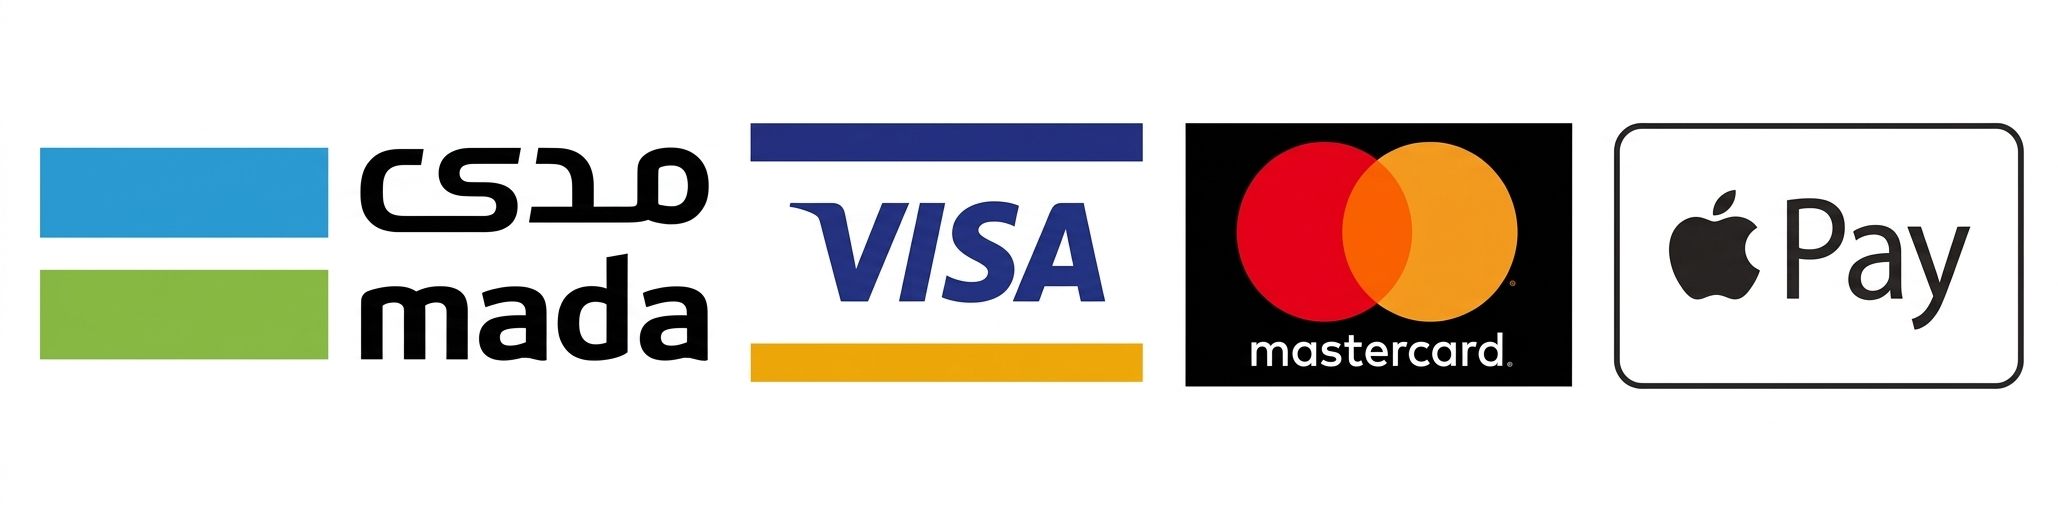
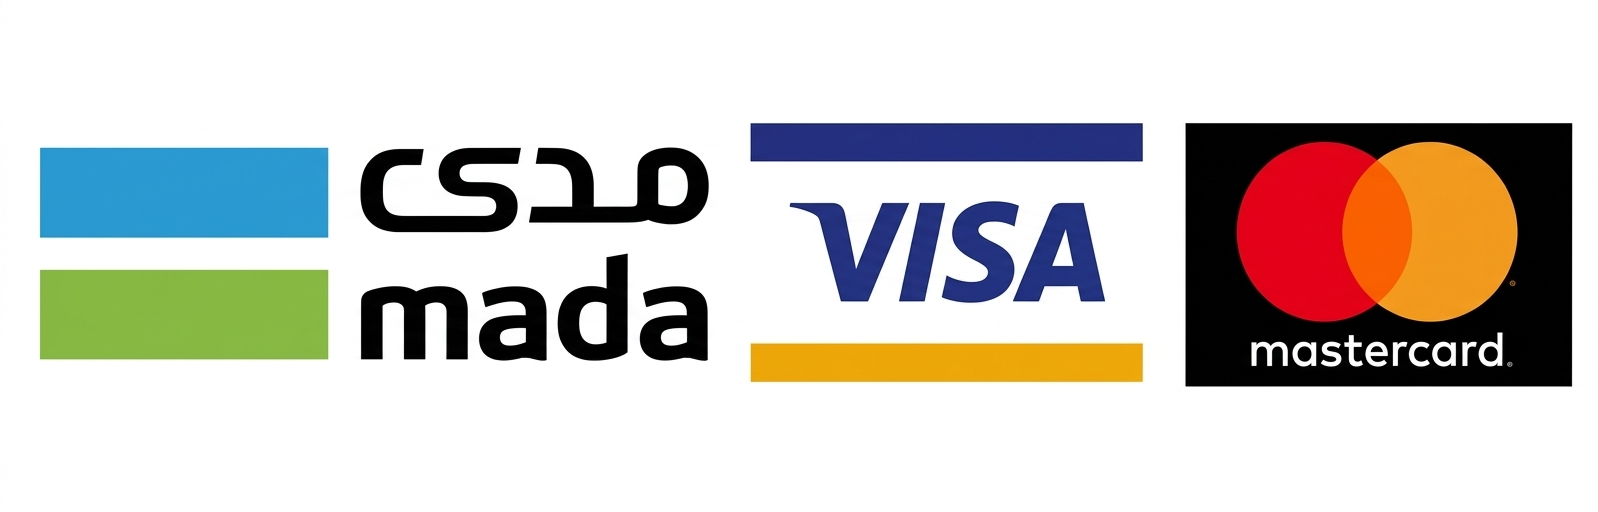
fix: refine checkout payment branding

Changed region(s): [[0.1533, 0.2188, 1.0, 0.7812], [0.0, 0.5312, 0.0307, 0.7188], [0.0, 0.2812, 0.0307, 0.4688]]

diff --git a/lib/features/checkout/presentation/screens/checkout_screen.dart b/lib/features/checkout/presentation/screens/checkout_screen.dart
@@ -615,7 +615,7 @@ class _CheckoutScreenState extends ConsumerState<CheckoutScreen> {
                   Text(
                     title,
                     style: const TextStyle(
-                      fontSize: 17,
+                      fontSize: 15,
                       fontWeight: FontWeight.w700,
                       color: Colors.black,
                     ),
@@ -625,7 +625,7 @@ class _CheckoutScreenState extends ConsumerState<CheckoutScreen> {
                     Text(
                       subtitle,
                       style: TextStyle(
-                        fontSize: 13,
+                        fontSize: 12,
                         height: 1.25,
                         color: Colors.grey.shade700,
                       ),
@@ -1069,7 +1069,7 @@ class _CheckoutScreenState extends ConsumerState<CheckoutScreen> {
                       Text(
                         'checkout.payment_details'.tr(),
                         style: const TextStyle(
-                          fontSize: 22,
+                          fontSize: 18,
                           fontWeight: FontWeight.w800,
                         ),
                       ),
@@ -1080,7 +1080,7 @@ class _CheckoutScreenState extends ConsumerState<CheckoutScreen> {
                             child: Text(
                               'checkout.pay_now_full'.tr(),
                               style: const TextStyle(
-                                fontSize: 15,
+                                fontSize: 14,
                                 fontWeight: FontWeight.w700,
                               ),
                             ),
@@ -1116,16 +1116,12 @@ class _CheckoutScreenState extends ConsumerState<CheckoutScreen> {
                             () => _selectedPaymentMethod = 'apple_pay',
                           ),
                           trailing: SizedBox(
-                            width: 104,
-                            height: 45,
-                            child: TapApplePayFlutter.buildApplePayButton(
-                              applePayButtonType:
-                                  ApplePayButtonType.appleLogoOnly,
-                              applePayButtonStyle:
-                                  ApplePayButtonStyle.whiteoutline,
-                              onPress: () => setState(
-                                () => _selectedPaymentMethod = 'apple_pay',
-                              ),
+                            width: 96,
+                            height: 44,
+                            child: Image.asset(
+                              'assets/images/apple_pay_logo.png',
+                              fit: BoxFit.contain,
+                              filterQuality: FilterQuality.high,
                             ),
                           ),
                         ),
@@ -1205,20 +1201,12 @@ class _CheckoutScreenState extends ConsumerState<CheckoutScreen> {
                       _selectedSavedCardToken = null;
                     }),
                     trailing: SizedBox(
-                      width: 142,
+                      width: 138,
                       height: 38,
-                      child: ClipRect(
-                        child: OverflowBox(
-                          alignment: AlignmentDirectional.centerStart,
-                          minWidth: 185,
-                          maxWidth: 185,
-                          child: Image.asset(
-                            'assets/images/payment_methods.png',
-                            width: 185,
-                            height: 38,
-                            fit: BoxFit.contain,
-                          ),
-                        ),
+                      child: Image.asset(
+                        'assets/images/payment_methods.png',
+                        fit: BoxFit.contain,
+                        filterQuality: FilterQuality.high,
                       ),
                     ),
                   ),
